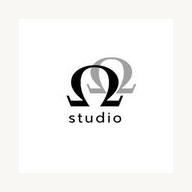
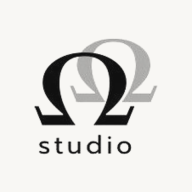
feat(omega): identidad propia B&N en vez de la foto de otro local
La agenda de Omega Studio mostraba /auralogin.png — literalmente la foto del
salón Aura — porque el tenant reusa el tema de Aura por _themeAlias y nadie
escribió el override del hero. Oren y Sion sí lo tenían; Omega se recreó el
24-jul y se saltó ese paso.

El hero del club, por su parte, pintaba /omega2.avif con background-size:cover
creyendo que era una foto del interior. No lo es: ese archivo es el WORDMARK
(912x513, tinta sobre hueso), así que quedaba un recorte gigante de letras bajo
un overlay oscuro.

Ahora Omega tiene capa propia sobre el tema claro heredado: hero invertido a
claro (#F8F7F4, el mismo fondo de su logo), nombre en Plus Jakarta Sans con
tracking, y negro neutro #111111 como acento en vez del champán inventado.

- Assets nuevos en omega/ derivados de los originales de AgendaPro: se usa la
  luminancia como alfa invertido en vez de recortar por umbral, que deja halos.
  Con piso de alfa para matar la veladura del fondo #F9F9F9 del wordmark.
- OG propio 1200x630 para que el link se vea bien al compartirlo por WhatsApp.
- Los 3 barberos reales en config.js. Las reseñas quedan vacías a propósito:
  son 14 reales pero AgendaPro no expone los textos y no se inventan.
- Se borran ~370 líneas de CSS huérfano .tenant-omegastudio (slug viejo, ningún
  documento lo aplica desde que el tenant se recreó como `omega`).

OJO con la especificidad al trabajar sobre _themeAlias: las reglas de una sola
[…]

Changed region(s): [[0.1562, 0.1875, 0.8438, 0.6562], [0.1875, 0.6875, 0.6875, 0.8125]]

diff --git a/dashboard.css b/dashboard.css
@@ -4948,139 +4948,6 @@
       color: #111827 !important;
     }
 
-    /* ══════════════════════════════════════════════════════════
-       OMEGA STUDIO — tenant-omegastudio
-       Champán #d4a96a sobre fondo oscuro #0c0c0e
-    ══════════════════════════════════════════════════════════ */
-
-    /* ── Variables & fondo ── */
-    .tenant-omegastudio {
-      --gold:      #d4a96a;
-      --gold-dim:  rgba(212,169,106,0.30);
-      --gold-glow: rgba(212,169,106,0.14);
-      --accent:    #d4a96a;
-      --accent-r:  212; --accent-g: 169; --accent-b: 106;
-    }
-    html.tenant-omegastudio body { background-color: #0c0c0e !important; }
-
-    /* ── Hero banner: interior de Omega Studio ── */
-    .tenant-omegastudio .hero-bg {
-      background-image: url('/omega2.avif');
-      background-size: cover;
-      background-position: center;
-    }
-    .tenant-omegastudio .hero-overlay {
-      background: linear-gradient(160deg,
-        rgba(0,0,0,0.25) 0%,
-        rgba(0,0,0,0.60) 45%,
-        rgba(0,0,0,0.88) 100%);
-    }
-    .tenant-omegastudio .hero-glow-spot {
-      background: radial-gradient(circle, rgba(212,169,106,0.10) 0%, transparent 65%) !important;
-    }
-    .tenant-omegastudio #heroLine2 { color: #d4a96a !important; font-style: normal !important; }
-
-    /* ── Sello lleno: champán ── */
-    .tenant-omegastudio .stamp-cell.filled {
-      background: #d4a96a !important;
-      border: 1px solid #d4a96a !important;
-      box-shadow: 0 0 10px rgba(212,169,106,0.35) !important;
-    }
-    .tenant-omegastudio .stamp-cell.filled i { color: #0c0c0e !important; }
-
-    /* ── Sello vacío: hendidura con relieve interior ── */
-    .tenant-omegastudio .stamp-cell.empty {
-      background: rgba(255,255,255,0.03) !important;
-      border: 1px solid rgba(255,255,255,0.06) !important;
-      box-shadow: inset 0 2px 4px rgba(0,0,0,0.55), inset 0 0 0 1px rgba(0,0,0,0.30) !important;
-    }
-
-    /* ── Próximo sello: resplandor champán para incentivar ── */
-    .tenant-omegastudio .stamp-cell.stamp-next {
-      border: 1.5px solid rgba(212,169,106,0.55) !important;
-      box-shadow:
-        inset 0 2px 4px rgba(0,0,0,0.40),
-        0 0 10px rgba(212,169,106,0.28),
-        0 0 20px rgba(212,169,106,0.12) !important;
-      background: rgba(212,169,106,0.06) !important;
-      animation: omega-next-pulse 2.4s ease-in-out infinite !important;
-    }
-    @keyframes omega-next-pulse {
-      0%, 100% { box-shadow: inset 0 2px 4px rgba(0,0,0,0.40), 0 0 8px rgba(212,169,106,0.22), 0 0 18px rgba(212,169,106,0.08); }
-      50%       { box-shadow: inset 0 2px 4px rgba(0,0,0,0.40), 0 0 14px rgba(212,169,106,0.42), 0 0 28px rgba(212,169,106,0.18); }
-    }
-
-    /* ── Premio vacío: icono atenuado ── */
-    .tenant-omegastudio .stamp-cell.prize-empty i { opacity: 0.35 !important; }
-    .tenant-omegastudio .stamp-cell.prize-filled {
-      background: #d4a96a !important;
-      border: 1px solid #d4a96a !important;
-      box-shadow: 0 0 14px rgba(212,169,106,0.45) !important;
-    }
-    .tenant-omegastudio .stamp-cell.prize-filled i { color: #0c0c0e !important; opacity: 1 !important; }
-
-    /* ── Barra de sellos ── */
-    .tenant-omegastudio #stampsBar {
-      background: linear-gradient(90deg, #d4a96a, #c08040) !important;
-      box-shadow: 0 0 8px rgba(212,169,106,0.35) !important;
-    }
-
-    /* ── PWA install card: peso reducido (sin borde dorado prominente) ── */
-    .tenant-omegastudio #pwaBigInstallCard {
-      background: linear-gradient(to right, rgba(212,169,106,0.07), rgba(212,169,106,0.02)) !important;
-      border: 1px solid rgba(212,169,106,0.18) !important;
-      box-shadow: none !important;
-    }
-    .tenant-omegastudio .pwa-icon-bg {
-      background: rgba(212,169,106,0.08) !important;
-      border: 1px solid rgba(212,169,106,0.18) !important;
-      box-shadow: none !important;
-    }
-    .tenant-omegastudio #pwaBanner { border-color: rgba(212,169,106,0.22) !important; }
-
-    /* ── Próximo premio: texto sin corte ── */
-    .tenant-omegastudio #nextRewardText {
-      white-space: normal !important;
-      overflow: visible !important;
-      text-overflow: unset !important;
-      font-size: 0.75rem !important;
-      line-height: 1.4 !important;
-    }
-
-    /* ── Inputs del perfil: borde visible + focus champán ── */
-    .tenant-omegastudio #editNombre,
-    .tenant-omegastudio #editTelefono,
-    .tenant-omegastudio #editFechaNacimiento {
-      border-color: rgba(212,169,106,0.20) !important;
-    }
-    .tenant-omegastudio #editNombre:focus,
-    .tenant-omegastudio #editTelefono:focus,
-    .tenant-omegastudio #editFechaNacimiento:focus {
-      border-color: #d4a96a !important;
-      box-shadow: 0 0 0 2px rgba(212,169,106,0.18) !important;
-    }
-
-    /* ── Tier badge Silver: gradiente metálico ── */
-    .tenant-omegastudio .tier-badge.silver {
-      color: #d4d4d4 !important;
-      border-color: rgba(200,200,200,0.28) !important;
-      background: linear-gradient(135deg,
-        rgba(220,220,230,0.14) 0%,
-        rgba(180,180,195,0.06) 50%,
-        rgba(220,220,230,0.10) 100%) !important;
-      box-shadow: inset 0 1px 0 rgba(255,255,255,0.08) !important;
-    }
-    .tenant-omegastudio .tier-badge.gold {
-      color: #d4a96a !important;
-      border-color: rgba(212,169,106,0.30) !important;
-      background: linear-gradient(135deg, rgba(212,169,106,0.14) 0%, rgba(212,169,106,0.04) 100%) !important;
-      box-shadow: 0 2px 8px rgba(212,169,106,0.12) !important;
-    }
-    .tenant-omegastudio .tier-badge.platinum {
-      color: #e8d5ff !important;
-      border-color: rgba(216,180,254,0.35) !important;
-    }
-
     /* ═══ THE LATIN CARIBE — dashboard: banner propio + paleta del logo ═══ */
     /* Acento de marca (cian) en vez del navy heredado de Aura */
     .tenant-latincaribe {
@@ -5258,12 +5125,66 @@
        Sin este bloque el club mostraba la FOTO de Aura en el hero y
        las secciones exclusivas de Aura (planes anuales con spinner
        infinito, porque su loader corta si el tenant no es `aura`).
+
+       El hero apuntaba a /omega2.avif creyendo que era una foto del
+       local; en realidad ese archivo es el WORDMARK (912x513, tinta
+       sobre hueso, opaco). Con background-size:cover y el overlay
+       oscuro encima quedaba un recorte gigante de las letras. Acá el
+       hero pasa a ser una superficie hueso limpia con la frase de
+       marca en tinta, que es la identidad real del local.
     ══════════════════════════════════════════════════════════════ */
-    .tenant-omega.tenant-aura .hero-bg::before {
-      background-image: url('/omega2.avif') !important;
-      background-position: center !important;
+
+    /* Aura ya usa grafito (#111827) como "dorado" del tema claro; Omega lo
+       lleva a negro neutro, sin el tinte azul, que es el de su logo. */
+    .tenant-omega.tenant-aura {
+      --gold:      #111111;
+      --gold-dim:  rgba(17,17,17,0.15);
+      --gold-glow: rgba(17,17,17,0.04);
+      --accent:    #111111;
+      --accent-r: 17; --accent-g: 17; --accent-b: 17;
+      --neon-clr:  #111111;
+      --neon-r:   17; --neon-g:   17; --neon-b:   17;
     }
-    .tenant-omega.tenant-aura .hero-bg { background-color: #0c0c0e !important; }
+
+    /* Hero sin foto: superficie hueso. Aura anima su imagen con Ken Burns en
+       ::before, así que hay que anularlo ahí y no solo en .hero-bg. Cuando
+       lleguen las fotos del local, esto vuelve a ser un background-image. */
+    .tenant-omega.tenant-aura .hero-bg {
+      background-color: #F8F7F4 !important;
+      background-image: none !important;
+      border: 1px solid rgba(17,17,17,0.10) !important;
+    }
+    .tenant-omega.tenant-aura .hero-bg::before {
+      background-image: none !important;
+      animation: none !important;
+    }
+    /* Overlay y glow existen para dar contraste sobre una foto oscura. */
+    .tenant-omega.tenant-aura .hero-overlay,
+    .tenant-omega.tenant-aura .hero-glow-spot { background: none !important; }
+
+    /* La frase de marca: "La puntualidad" / "es nuestro estilo.". El text-shadow
+       y la itálica vienen inline del tema Elegance y sobre hueso solo ensucian. */
+    .tenant-omega.tenant-aura #heroLine1 {
+      color: #111111 !important;
+      text-shadow: none !important;
+    }
+    .tenant-omega.tenant-aura #heroLine2 {
+      color: #6B7280 !important;
+      font-style: normal !important;
+      text-shadow: none !important;
+    }
+    /* CTA: sobre hueso el botón translúcido de Aura se pierde; se invierte a
+       negro sólido, que además es el CTA que ya usa la agenda pública. */
+    .tenant-omega.tenant-aura .hero-cta {
+      background: #111111 !important;
+      border: 1px solid #111111 !important;
+      color: #FFFFFF !important;
+      box-shadow: none !important;
+      backdrop-filter: none !important;
+      -webkit-backdrop-filter: none !important;
+    }
+    .tenant-omega.tenant-aura .hero-cta i { color: #FFFFFF !important; }
+
     .tenant-omega.tenant-aura #rangosExplainerAura,
     .tenant-omega.tenant-aura #planesAnualesAura { display: none !important; }
 

diff --git a/seed-omega.js b/seed-omega.js
@@ -186,7 +186,7 @@ async function seedSettings() {
     telefono:  '+56972302811',
     whatsapp:  '+56972302811',
     instagram: '@omegastudio.cl',
-    logo:      '',      // el fallback usa /omega.jpg del config.js hasta que suban logo propio
+    logo:      '',      // el fallback usa /omega/logo.webp del config.js hasta que suban logo propio
     loginBanner: '',    // opcional — se muestra en el panel LoginPage
     emailAvisos: '',    // el dueño lo completa en Configuración
     horario:   HORARIO_MAIN,
@@ -212,19 +212,22 @@ async function seedSettings() {
   }, { merge: true });
 
   // settings/theme — tokens de tema CLARO (alias visual de Aura).
-  // El header/hero permanecen oscuros por contraste (aura hace lo mismo).
+  // Identidad B&N: tinta negra sobre hueso, igual que su logo y su wordmark.
+  // El champán #d4a96a que había acá era invención del slug viejo
+  // `omegastudio` y no existe en la marca real; el hero además pasó a claro
+  // (ver el bloque .tenant-omega en index.html y dashboard.css).
   await tenantRef.collection('settings').doc('theme').set({
     colorBg:            '#f8f7f4',
     colorSurface:       '#ffffff',
     colorSurfaceAlt:    '#f0efec',
-    colorPrimary:       '#d4a96a',
-    colorAccent:        '#c08040',
-    colorText:          '#1a1a1a',
+    colorPrimary:       '#111111',
+    colorAccent:        '#111111',
+    colorText:          '#18181b',
     colorMuted:         '#6b7280',
-    colorBorder:        'rgba(212,169,106,0.28)',
-    colorGlow:          'rgba(212,169,106,0.18)',
+    colorBorder:        'rgba(17,17,17,0.12)',
+    colorGlow:          'rgba(17,17,17,0.06)',
     colorButtonText:    '#ffffff',
-    colorProgressTrack: 'rgba(212,169,106,0.10)',
+    colorProgressTrack: 'rgba(17,17,17,0.10)',
     updatedAt:          TS(),
   }, { merge: true });
 
@@ -253,7 +256,7 @@ async function seedProfile() {
     address:         '📍 Av. Valparaíso 595, Local 53, 2do Piso | Viña del Mar',
     scheduleText:    'Lun–Vie 10–20h · Sáb 10–18h · Domingo cerrado',
     phone:           '+56972302811',
-    logoUrl:         '/omega.jpg',
+    logoUrl:         '/omega/logo.webp',
     instagram:       'https://www.instagram.com/omegastudio.cl/',
     pageTitle:       'Omega Studio | Agenda tu hora en Viña del Mar',
     metaDescription: 'Reserva tu hora en Omega Studio. Cortes, barba, tratamientos faciales y color en Av. Valparaíso 595, Local 53, Viña del Mar.',

diff --git a/config.js b/config.js
@@ -865,15 +865,19 @@
       ],
     },
     // Omega Studio · Viña del Mar — recreado 2026-07-24 desde AgendaPro.
-    // Tema claro (alias de Aura, ver _themeAlias + _lightTenants arriba).
+    // Tema claro (alias de Aura, ver _themeAlias + _lightTenants arriba) con
+    // una capa propia B&N: su identidad real es tinta negra sobre hueso
+    // (#F8F7F4), el mismo fondo de su logo y su wordmark oficiales. El hero
+    // se invierte a claro en index.html y dashboard.css — Aura lo pinta
+    // oscuro con foto, y sin ese override Omega mostraba /auralogin.png.
     omega: {
       categoriasServicio: ['Cortes', 'Barba', 'Combos', 'Facial', 'Color', 'Otros'],
       nombre:          'OMEGA STUDIO',
       nombreCorto:     'Omega',
       pageTitle:       'Omega Studio | Agenda tu hora',
       slogan:          'ESTUDIO ATENDIDO POR PROFESIONALES',
-      logo:            '/omega.jpg',
-      heroBanner:      '/omega2.avif',
+      logo:            '/omega/logo.webp',
+      heroBanner:      '/omega/banner.webp',
       direccion:       '📍 Av. Valparaíso 595, Local 53, 2do Piso | Viña del Mar',
       horario:         '🕒 Lun–Vie: 10–20h · Sáb: 10–18h · Dom: cerrado',
       telefono:        '+56972302811',
@@ -887,8 +891,15 @@
       googleReviewUrl: '',
       ratingGeneral:   5.0,
       totalReviews:    14,
+      // Las 14 reseñas son reales (5.0 en su ficha), pero AgendaPro no expone
+      // los textos: se dejan vacías a propósito en vez de inventarlas. El hero
+      // igual muestra el promedio y el conteo.
       reviews:         [],
-      barberos: [],
+      barberos: [
+        { nombre: 'Julián Beltrán',  foto: null, disponible: true },
+        { nombre: 'Antonio Morales', foto: null, disponible: true },
+        { nombre: 'Thomas Castillo', foto: null, disponible: true },
+      ],
     },
     // Sion Barbería · Viña del Mar — recreado 2026-07-27 desde AgendaPro
     // (mini-site sionbarberia.site.agendapro.com/cl/sucursal/477414).

diff --git a/middleware.js b/middleware.js
@@ -777,11 +777,14 @@ const TENANT_META = {
       ogDesc:      'Regístrate en Omega Studio y disfruta de beneficios exclusivos.',
     },
     siteName:    'Omega Studio',
-    ogImage:     '/omega.jpg',
+    // OG propio 1200x630: el wordmark oficial centrado sobre el hueso de marca.
+    // Antes apuntaba a /omega.jpg (el logo cuadrado de 320px), que al compartir
+    // el link salía recortado y borroso en la tarjeta de WhatsApp.
+    ogImage:     '/omega/og.png',
     // Tema claro (alias de Aura) — el theme-color acompaña el fondo del panel/PWA.
     themeColor:  '#f8f7f4',
     appTitle:    'Omega',
-    icon:        '/omega.jpg',
+    icon:        '/omega/favicon.png',
     iconPwa192:  '/icons/pwa/omega-192.png',
     iconPwa512:  '/icons/pwa/omega-512.png',
     local: {
@@ -802,11 +805,13 @@ const TENANT_META = {
       name:             'Panel Admin · Omega',
       short_name:       'Omega',
       description:      'Panel de administración — Omega Studio',
-      theme_color:      '#d4a96a',
+      // Negro de marca: el champán #d4a96a venía del tema descartado del slug
+      // viejo `omegastudio` y no existe en la identidad real del local.
+      theme_color:      '#111111',
       background_color: '#f8f7f4',
       start_url:        '/gestion-interna/?local=omega',
       icons: [
-        { src: '/omega.jpg',                   sizes: 'any',     type: 'image/jpeg' },
+        { src: '/omega/favicon.png',           sizes: 'any',     type: 'image/png' },
         { src: '/gestion-interna/pwa-192.png', sizes: '192x192', type: 'image/png' },
         { src: '/gestion-interna/pwa-512.png', sizes: '512x512', type: 'image/png', purpose: 'any maskable' },
       ],

diff --git a/admin-panel/src/contexts/TenantContext.jsx b/admin-panel/src/contexts/TenantContext.jsx
@@ -28,7 +28,9 @@ export const TENANT_META = {
   estudioluxury:      { name: 'Studio Luxury',             accent: 'amber',  emoji: '💈', logo: '/luxury/luxury.jpg', banner: '/luxury/banner.webp', brand: { sede: 'Talagante', tagline: 'Barbería' } },
   renacer:            { name: 'Peluquería y Barbería Renacer', accent: 'amber', emoji: '✂', logo: '/renacer/logo.webp', banner: '/renacer/banner.webp' },
   oren:               { name: 'Oren Barber', accent: 'amber', emoji: '✂', logo: '/oren/oren-logo.webp', banner: '/oren/renaca.webp' },
-  omega:              { name: 'OMEGA STUDIO', accent: 'amber', emoji: '✂', logo: '/omega.jpg' },
+  // Acento zinc (no amber): la identidad real de Omega es B&N sobre hueso; el
+  // ámbar venía del tema champán descartado del slug viejo `omegastudio`.
+  omega:              { name: 'OMEGA STUDIO', accent: 'zinc', emoji: '✂', logo: '/omega/logo.webp', banner: '/omega/banner.webp', brand: { sede: 'Viña del Mar', tagline: 'Estudio de barbería' } },
   // Sion Barbería (Viña del Mar). Acento naranja = su color de marca real
   // (#F57808, el mismo que traía su ficha de AgendaPro). NO confundir con
   // `sionbarberia`, que es Studio Dieciséis.

diff --git a/scripts/gen-pwa-icons.js b/scripts/gen-pwa-icons.js
@@ -37,7 +37,10 @@ const TENANTS = {
   latincaribe:          { src: 'thelatin/latin.png',              bg: '#0a0a0a' },
   machos:               { src: 'machos.png',                      bg: '#090d16' },
   infinity:             { src: 'infinity.png',                    bg: '#121214' },
-  omega:                { src: 'omega.jpg',                       bg: '#f8f7f4' },
+  // Omega: el Ω ya viene recortado y con alfa (omega/logo.webp), así que el
+  // fondo hueso de marca queda visible alrededor. El omega.jpg original traía
+  // su propio fondo blanco puro y se veía como un parche sobre el hueso.
+  omega:                { src: 'omega/logo.webp',                 bg: '#f8f7f4' },
   sionbarberia:         { src: 'dieciseis/logo.png',              bg: '#0a0a0a' },
   kronnos:              { src: 'kronnos/studio.jpg',              bg: '#0a0a0a' },
   kronnos_woman:        { src: 'kronnos/woman.jpg',               bg: '#0a0a0a' },

diff --git a/barbero.html b/barbero.html
@@ -2442,7 +2442,7 @@
         estudioluxury: { r:234, g:179, b:8   },  // reusa el tema de Barbers Club
         delnero:       { r:57,  g:255, b:20  },  // #39ff14 verde neón
         lumen:         { r:212, g:175, b:55  },  // #D4AF37
-        omega:         { r:212, g:169, b:106 },  // #d4a96a
+        omega:         { r:17,  g:17,  b:17  },  // #111111 negro de marca (igual al index)
         memphis:       { r:217, g:220, b:225 },  // #D9DCE1
         elbarberomoderno: { r:192, g:192, b:192 }, // #C0C0C0
         marcelo_hairdressing: { r:255, g:255, b:255 }, // #ffffff
